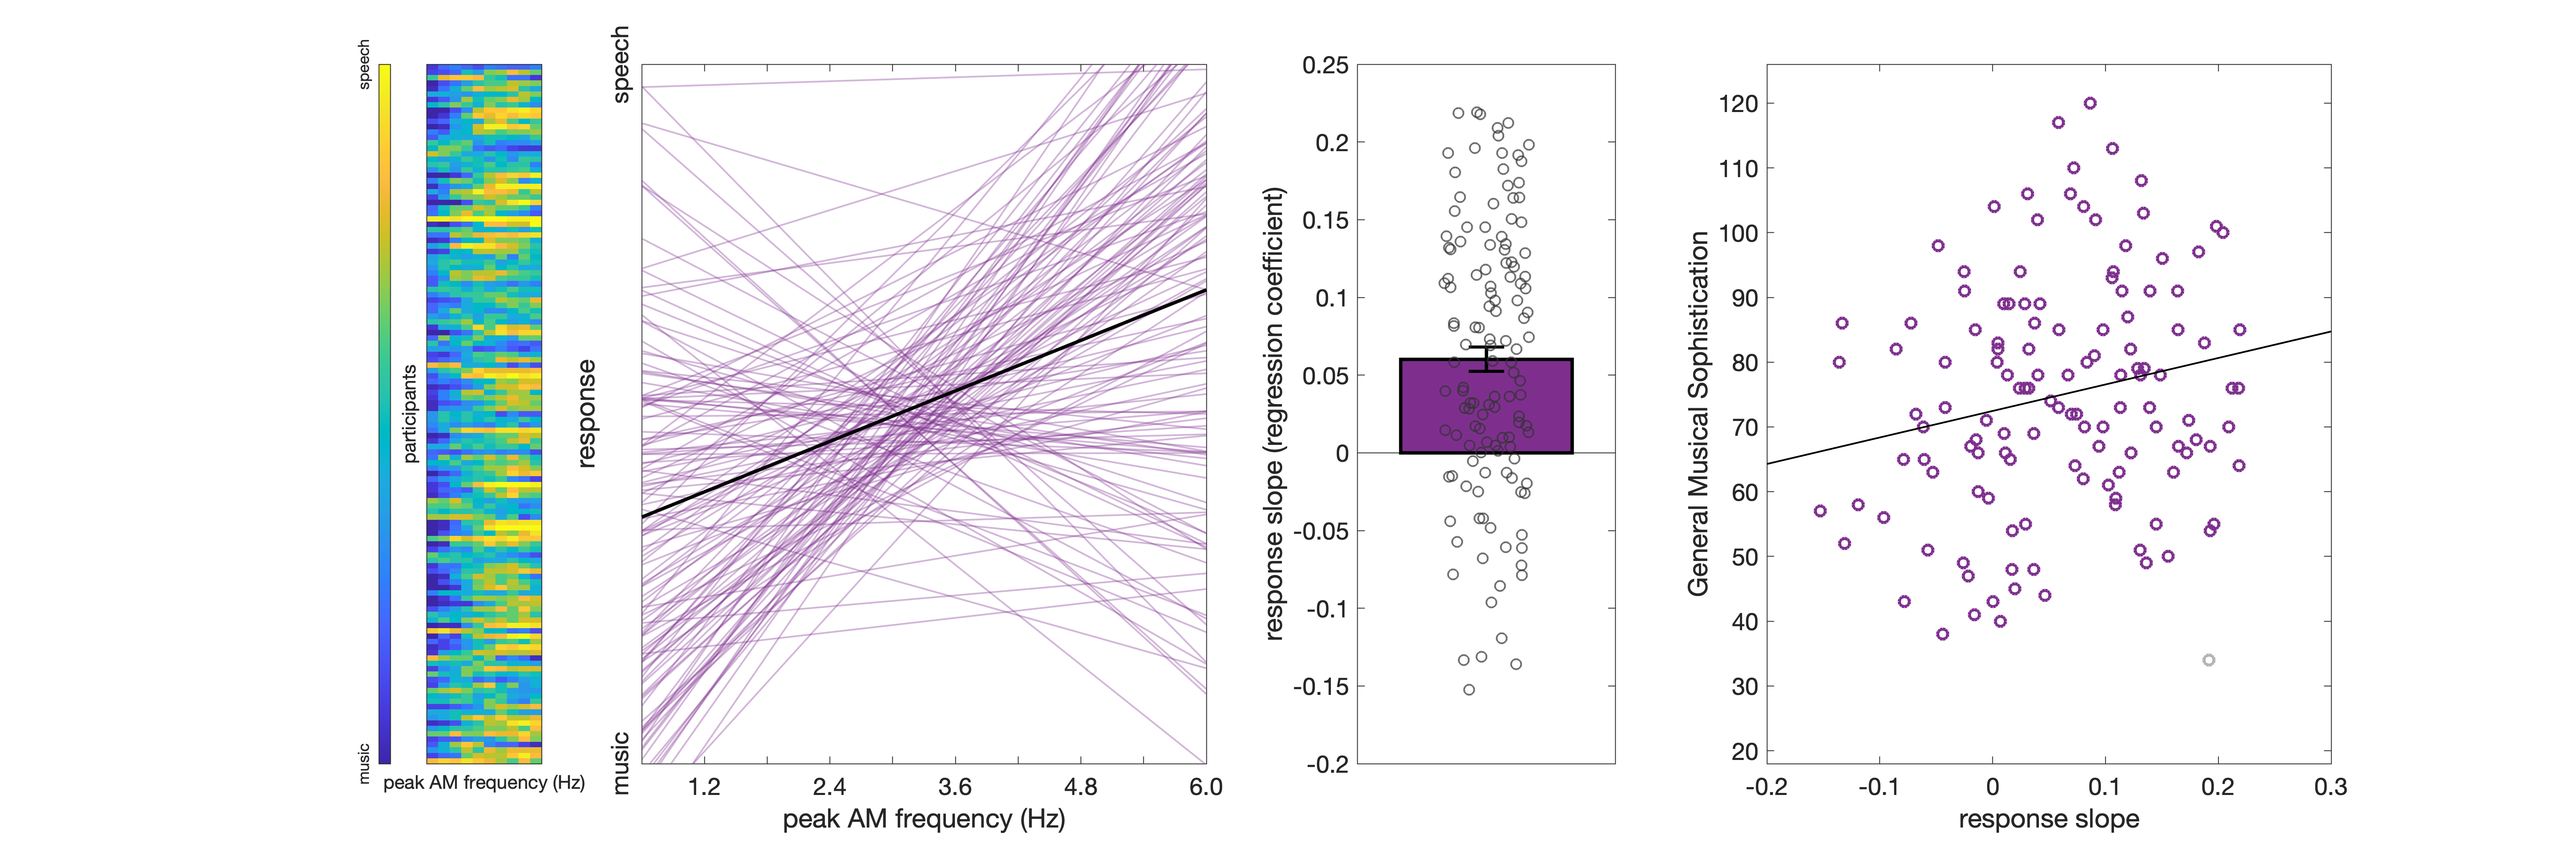
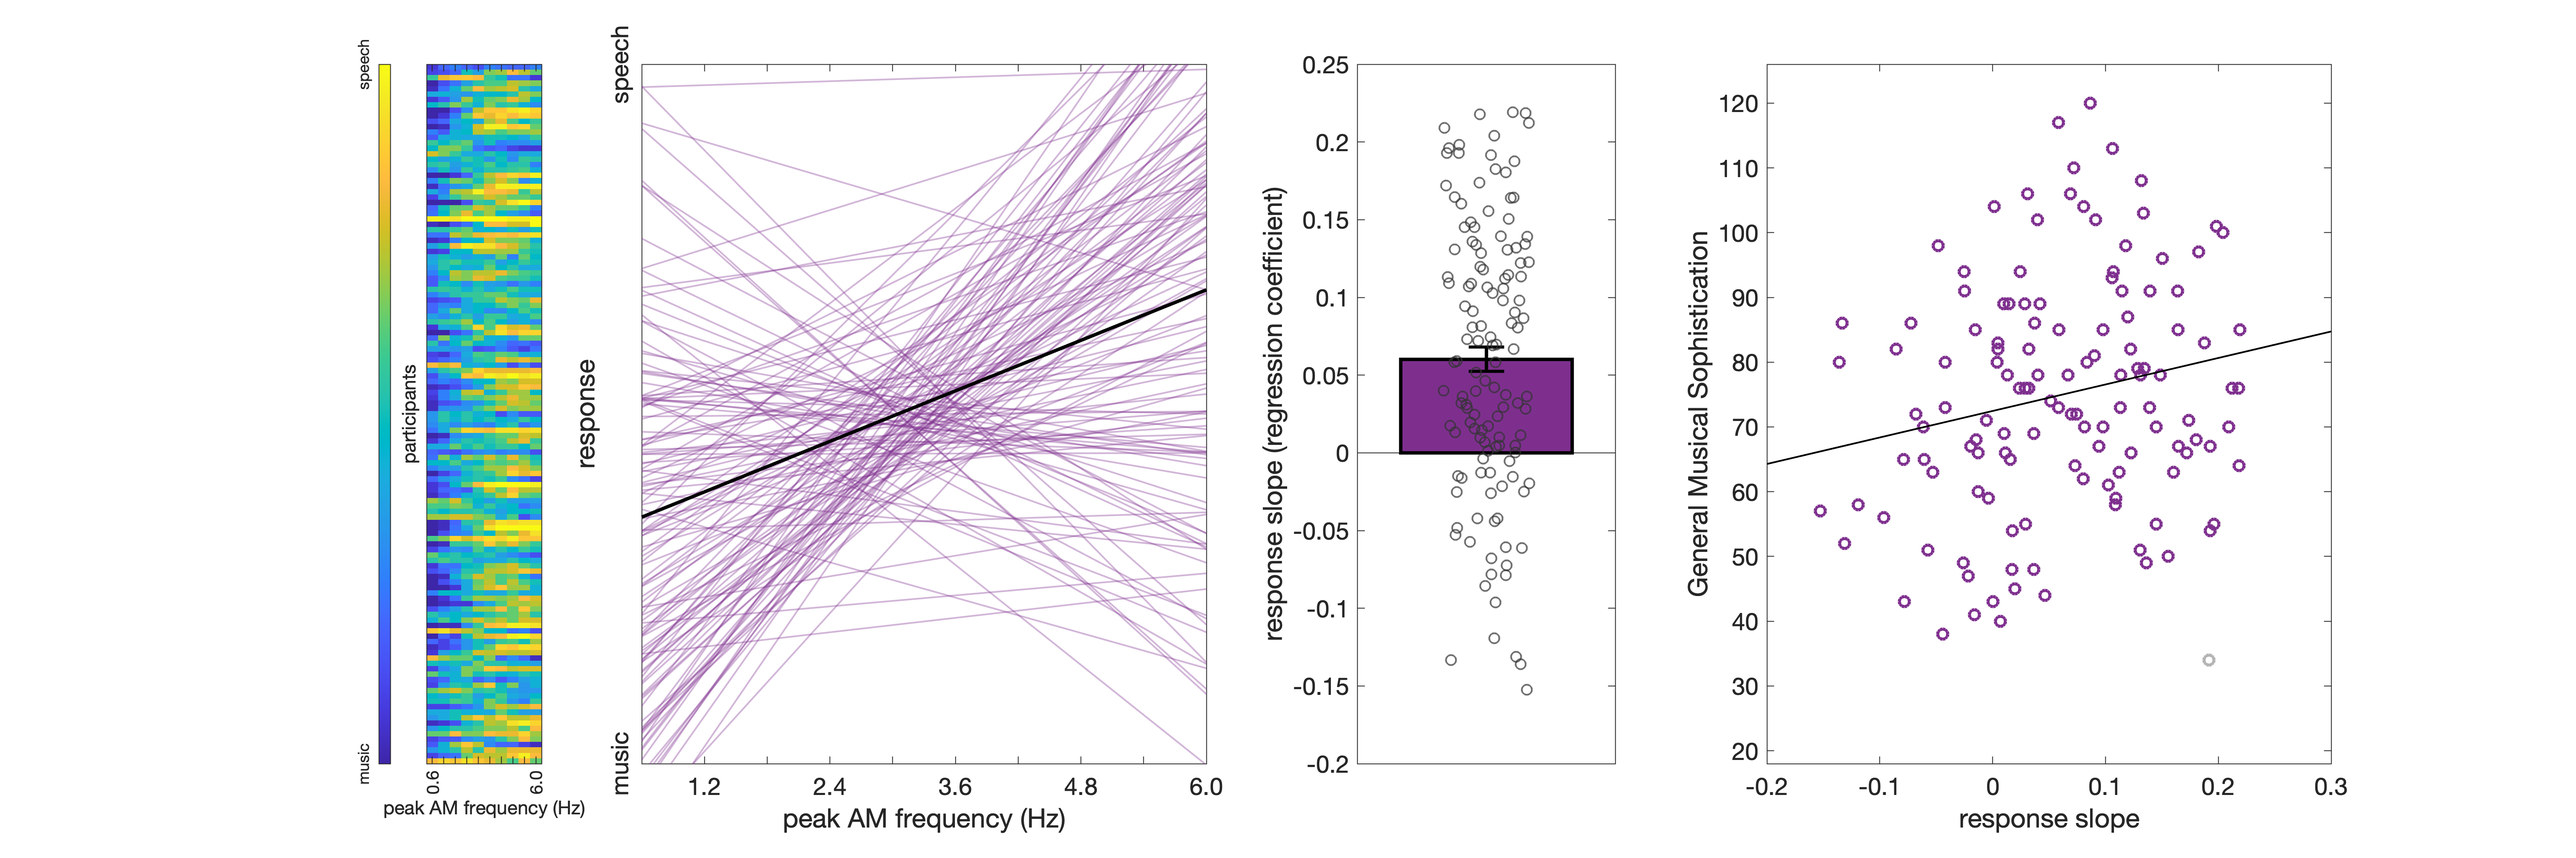
(version2) exp1 imagesc add x ticks

Changed region(s): [[0.5616, 0.1248, 0.5928, 0.6865], [0.156, 0.9049, 0.2184, 0.9674], [0.5616, 0.7489, 0.5928, 0.7801]]

diff --git a/analyses/analyze_Exp1_sharing.m b/analyses/analyze_Exp1_sharing.m
@@ -221,11 +221,13 @@ cohenD = abs((mean(dataAll.gen(slope<0))-mean(dataAll.gen(slope>0)))/sp)
 
 figure('Position', [10 10 1500 500])
 subplot(1,10,[1,1.25])
-imagesc(dataPlot)
+imagesc(0.6:0.6:6, 1:length(dataPlot) ,dataPlot)
 yticks([])
-xticks([])
+xticks([0.6:0.6:6])
+xticklabels({'0.6','','','','','','','','','6.0'})
 ylabel('participants')
 xlabel('peak AM frequency (Hz)')
+% set(gca, 'XTick',xtnew, 'XTickLabel',xtlbl) 
 cb = colorbar('Ticks',[1,2], 'TickLabels',{'music','speech'},'location','westoutside');
 cb.Ruler.TickLabelRotation=90;
 
